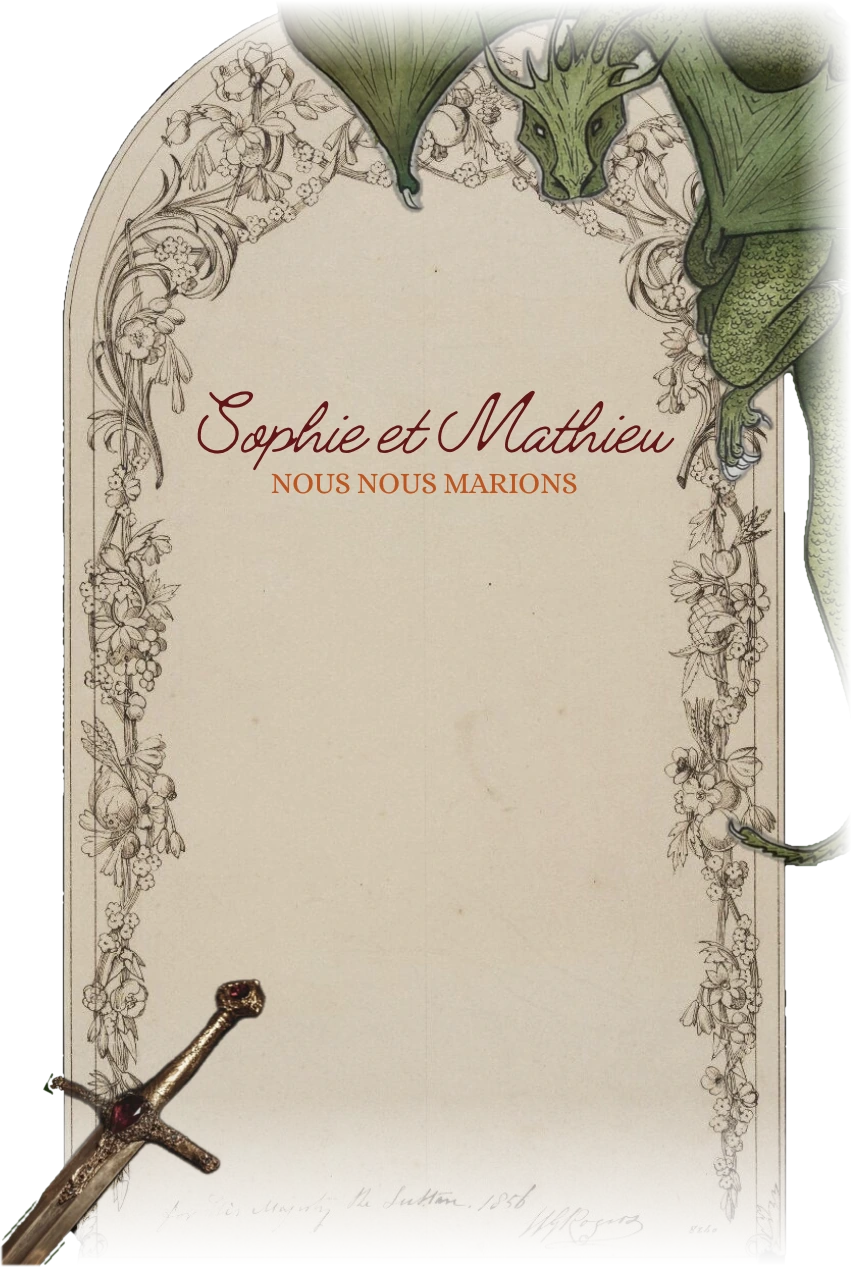
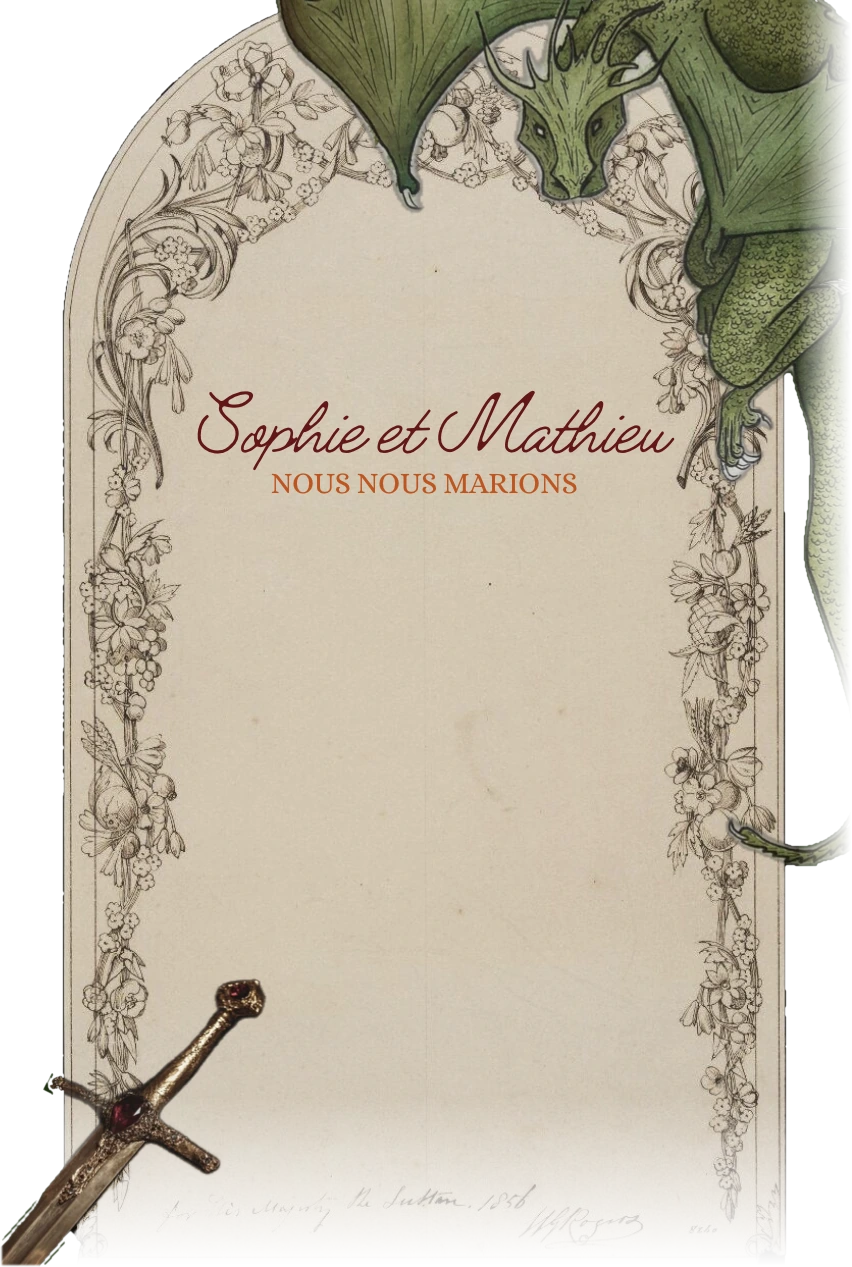
Complète le haut des ailes du dragon
Les ailes, coupées par le haut de l'image, sont prolongées jusqu'à leur
sommet : membrane peinte aux teintes de l'original avec hachures
rayonnantes, bord osseux cerné et griffe à chaque pointe. Raccord sans
couture avec l'illustration (chevauchement et fondu des couleurs).

Claude-Session: https://claude.ai/code/session_019HCE6suumn9dxpQnk6FQ5b

Changed region(s): [[0.2441, 0.0, 1.0, 0.0616]]

diff --git a/index.html b/index.html
@@ -24,6 +24,8 @@
     <div class="card">
       <img class="card-art" src="images/faire-part.webp" width="852" height="1267"
            alt="Faire-part : parchemin orné de gravures florales, un dragon vert agrippé en haut à droite et une épée en bas à gauche. Sophie et Mathieu — Nous nous marions.">
+      <!-- Haut des ailes du dragon, complété dans le style de l'illustration -->
+      <img class="dragon-wings" src="images/dragon-ailes.webp" width="602" height="196" alt="">
       <!-- Suite de la lame, reconstituée à partir de sa texture -->
       <img class="sword-blade" src="images/epee-lame.webp" width="560" height="620" alt="">
       <h1 class="sr-only">Sophie et Mathieu — Nous nous marions</h1>

diff --git a/style.css b/style.css
@@ -156,6 +156,7 @@ body {
 
 .card {
   position: relative;
+  margin-top: 22.5%; /* place pour les ailes */
   container-type: inline-size;
   animation: card-in 1.6s cubic-bezier(.2, .8, .2, 1) both;
 }
@@ -165,6 +166,16 @@ body {
   width: 100%;
   height: auto;
   filter: drop-shadow(0 18px 30px rgba(0, 0, 0, .45)) drop-shadow(0 0 40px rgba(255, 220, 150, .12));
+}
+
+/* Haut des ailes, au-dessus de l'image (852 × 1267) */
+.dragon-wings {
+  position: absolute;
+  left: 29.343%;
+  top: -14.996%;
+  width: 70.657%;
+  height: auto;
+  pointer-events: none;
 }
 
 /* Suite de la lame, calée sur les coordonnées de l'image (852 × 1267) */
